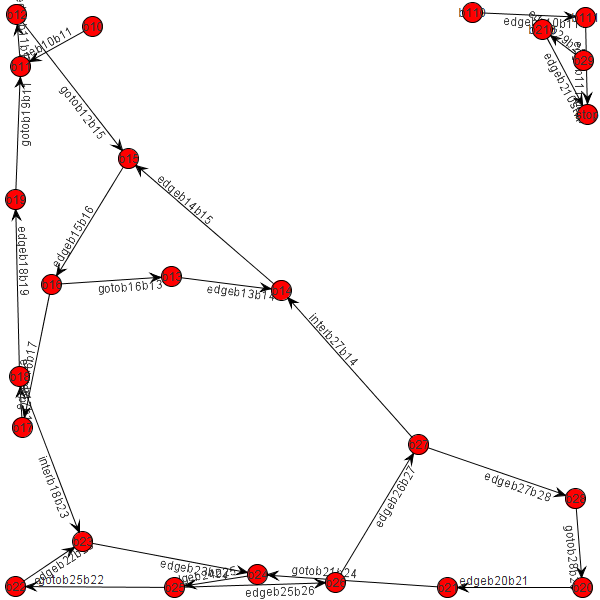
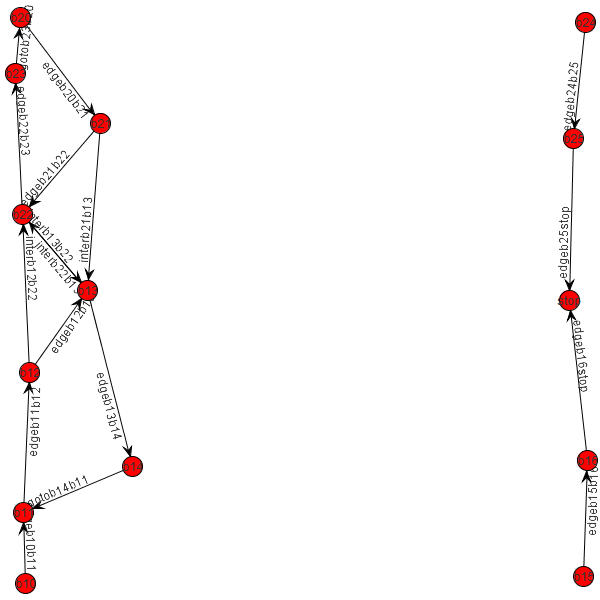
added wait prefix and notify prefix.waitprefix>notify>waitsuffix

diff --git a/CFGgenerator/src/in/msruas/project/CFGconstructor1.java b/CFGgenerator/src/in/msruas/project/CFGconstructor1.java
@@ -32,6 +32,7 @@ public class CFGconstructor1 {
 	WaitAndNotify wn;
 	WaitAndNotifyOps wno;
 	BasicBlockOps bbo;
+	int syncBlockCount;
 	
 
 	int[][] edge;
@@ -53,7 +54,7 @@ public class CFGconstructor1 {
 		wn=new WaitAndNotify(fileName);
 		wno=WaitAndNotifyOps.getInstance();
 		bbo=BasicBlockOps.getInstance();
-		
+		syncBlockCount=0;
 
 	}
 
@@ -100,20 +101,21 @@ public class CFGconstructor1 {
 					waitQueue.add(currentAddr);
 					sb.setWaitList(Integer.parseInt(currentAddr));
 					leaders[numberofLeaders++] = Integer.parseInt(currentAddr);
-					leaderSwitch=true;
+					//leaderSwitch=true;
 					continue;
 				}
 				
 				if (token.contains("notify")) {
 					notifyQueue.add(currentAddr);
 					sb.setNotifyList(Integer.parseInt(currentAddr));
-					leaders[numberofLeaders++] = Integer.parseInt(currentAddr);
+					//leaders[numberofLeaders++] = Integer.parseInt(currentAddr);
 				}
 
 				if (token.equals("monitorenter")) {
 
 					StringTokenizer st1 = new StringTokenizer(currentLine);
 					String addr = st1.nextToken();
+					syncBlockCount++;
 
 					// monitorenter and monitorexit instruction are leaders
 					int presentAddress = Integer.parseInt(addr);
@@ -126,39 +128,44 @@ public class CFGconstructor1 {
 				if (token.equals("monitorexit")) {
 					leaderSwitch = true;
 					sb.setExitLine(Integer.parseInt(currentAddr));
+					syncBlockCount--;
+				}
+				
+				if(syncBlockCount==0){
+					if (token.equals("goto") || token.equals("goto_w") || token.equals("jsr") || token.equals("jsr_w")
+							|| token.equals("ret") || token.equals("tableswitch") || token.equals("lookupswitch")) {
+						StringTokenizer st2 = new StringTokenizer(currentLine);
+						String addr = st2.nextToken();
+						int presentAddress = Integer.parseInt(addr);
+						int targetAddress = Integer.parseInt(st.nextToken());
+						leaders[numberofLeaders++] = targetAddress;
+						System.out.println("leader: " + leaders[numberofLeaders - 1]);
+						leaderSwitch = true;
+
+						// construction of edge
+						edge[row][0] = presentAddress;
+						edge[row][1] = targetAddress;
+						row++;
+						gotoList.add(presentAddress);
+
+					}
+
+					if (token.charAt(0) == 'i' && token.charAt(1) == 'f') {
+						StringTokenizer st2 = new StringTokenizer(currentLine);
+						String addr = st2.nextToken();
+						int presentAddress = Integer.parseInt(addr);
+						int targetAddress = Integer.parseInt(st.nextToken());
+						leaders[numberofLeaders++] = presentAddress;
+						leaders[numberofLeaders++] = targetAddress;
+						leaderSwitch = true;
+						// construction of edge
+						edge[row][0] = presentAddress;
+						edge[row][1] = targetAddress;
+						row++;
+					}
 				}
 
-				if (token.equals("goto") || token.equals("goto_w") || token.equals("jsr") || token.equals("jsr_w")
-						|| token.equals("ret") || token.equals("tableswitch") || token.equals("lookupswitch")) {
-					StringTokenizer st2 = new StringTokenizer(currentLine);
-					String addr = st2.nextToken();
-					int presentAddress = Integer.parseInt(addr);
-					int targetAddress = Integer.parseInt(st.nextToken());
-					leaders[numberofLeaders++] = targetAddress;
-					System.out.println("leader: " + leaders[numberofLeaders - 1]);
-					leaderSwitch = true;
-
-					// construction of edge
-					edge[row][0] = presentAddress;
-					edge[row][1] = targetAddress;
-					row++;
-					gotoList.add(presentAddress);
-
-				}
-
-				if (token.charAt(0) == 'i' && token.charAt(1) == 'f') {
-					StringTokenizer st2 = new StringTokenizer(currentLine);
-					String addr = st2.nextToken();
-					int presentAddress = Integer.parseInt(addr);
-					int targetAddress = Integer.parseInt(st.nextToken());
-					leaders[numberofLeaders++] = presentAddress;
-					leaders[numberofLeaders++] = targetAddress;
-					leaderSwitch = true;
-					// construction of edge
-					edge[row][0] = presentAddress;
-					edge[row][1] = targetAddress;
-					row++;
-				}
+				
 
 				// Separating monitorenter and monitorexit instructions
 

diff --git a/CFGgenerator/src/in/msruas/project/CFGgenerator.java b/CFGgenerator/src/in/msruas/project/CFGgenerator.java
@@ -6,10 +6,13 @@ import java.io.IOException;
 public class CFGgenerator {
 
 	public static void main(String[] args) throws IOException {
-		CFGconstructor cfg = new CFGconstructor("F:\\individual_project\\bytecodes\\producer.txt",1);
-		CFGconstructor cfg1 = new CFGconstructor("F:\\individual_project\\bytecodes\\consumer.txt",2);
+		CFGconstructor1 cfg = new CFGconstructor1("F:\\individual_project\\bytecodes\\producer.txt",1);
+		CFGconstructor1 cfg1 = new CFGconstructor1("F:\\individual_project\\bytecodes\\consumer.txt",2);
 //		CFGconstructor cfg = new CFGconstructor("F:\\individual_project\\bytecodes\\caseStudy1_thread1.txt",1);
 //		CFGconstructor cfg1 = new CFGconstructor("F:\\individual_project\\bytecodes\\caseStudy1_thread2.txt",2);
+//		CFGconstructor1 cfg = new CFGconstructor1("F:\\individual_project\\bytecodes\\SimpleWaitAndNotifyMain.txt",1);
+//		CFGconstructor1 cfg1 = new CFGconstructor1("F:\\individual_project\\bytecodes\\SimpleWaitAndNotifyThreadOne.txt",2);
+		
 		NPAnalyzer npa=NPAnalyzer.getInstance();
 		CodeStore cs=CodeStore.getInstance();
 		HappensBefore hb=HappensBefore.getInstance();
@@ -37,8 +40,12 @@ public class CFGgenerator {
 		
 		
 		//g.genInterThreadComm(cfg1.getWaitStack(), cfg1.getNotifyStack());
-		InterThreadAnalysis it=new InterThreadAnalysis(cfg.getBasicBlock(), cfg1.getBasicBlock(), g);
-		it.computerInterThreadEdges(cfg.getWaitStack(), cfg.getNotifyStack(), cfg1.getWaitStack(), cfg1.getNotifyStack());
+//		InterThreadAnalysis it=new InterThreadAnalysis(cfg.getBasicBlock(), cfg1.getBasicBlock(), g);
+//		it.computerInterThreadEdges(cfg.getWaitStack(), cfg.getNotifyStack(), cfg1.getWaitStack(), cfg1.getNotifyStack());
+//		
+		InterThreadAnalysis1 it=new InterThreadAnalysis1(g);
+		it.computerInterThreadEdges();
+		
 		g.renderGraph();
 //		cfg.printblock();
 //		cfg1.printblock();

diff --git a/CFGgenerator/src/in/msruas/project/InterThreadAnalysis1.java b/CFGgenerator/src/in/msruas/project/InterThreadAnalysis1.java
@@ -1,27 +1,46 @@
 package in.msruas.project;
+
 import java.util.ArrayList;
+import java.util.HashMap;
+import java.util.Iterator;
 import java.util.Queue;
 
-public class InterThreadAnalysis {
-	
+public class InterThreadAnalysis1 {
 	String filePath1,filePath2;
 	BasicBlock[] bb1,bb2;
 	GraphGenerator g;
-	//SyncBlocksOps sbo;
-	//Queue waitQueue,notifyQueue;
-	
-
-	public InterThreadAnalysis(BasicBlock[] bb1, BasicBlock[] bb2,
-			GraphGenerator g) {
-				
-		this.bb1 = bb1;
-		this.bb2 = bb2;
+	WaitAndNotifyOps wno;
+	Queue waitQ1, notifyQ1, waitQ2, notifyQ2;
+	//BasicBlockOps bbo;
+	Nodes nodelist;
+	public InterThreadAnalysis1(GraphGenerator g) {
 		this.g=g;
-		//sbo=SyncBlocksOps.getInstance();
+		wno=WaitAndNotifyOps.getInstance();
+		//bbo=BasicBlockOps.getInstance();
+		nodelist=Nodes.getInstance();
+		initBasicBlocks();
+		initQueues();
 	}
-
-
-	public void computerInterThreadEdges(Queue waitQ1,Queue notifyQ1,Queue waitQ2,Queue notifyQ2){
+	
+	/*function to initialize the basic blocks*/
+	void initBasicBlocks(){
+		HashMap blockList=nodelist.getEntireNodesMap();
+		Iterator keyset = blockList.keySet().iterator();		
+		bb1=(BasicBlock[]) blockList.get(keyset.next());
+		bb2=(BasicBlock[]) blockList.get(keyset.next());
+		
+	}
+	
+	/*function to initialize the wait and notify queues*/
+	void initQueues(){
+		ArrayList<WaitAndNotify> wnList = wno.getWnList();
+		waitQ1=wnList.get(1).getWaitQueue();
+		notifyQ1=wnList.get(1).getNotifyQueue();
+		waitQ2=wnList.get(0).getWaitQueue();
+		notifyQ2=wnList.get(0).getNotifyQueue();		
+	}
+	
+public void computerInterThreadEdges(){
 		
 		for(Object item : notifyQ1){
 			int from = Integer.parseInt((String) notifyQ1.remove()) , to = Integer.parseInt((String) waitQ2.remove());
@@ -92,5 +111,6 @@ public class InterThreadAnalysis {
 		}
 		return null;
 	}
+	
 	
 }

diff --git a/CFGgenerator/src/in/msruas/project/Nodes.java b/CFGgenerator/src/in/msruas/project/Nodes.java
@@ -26,6 +26,10 @@ public class Nodes {
 		return (BasicBlock[]) nodesMap.get(fileName);
 	}
 	
+	public HashMap getEntireNodesMap(){
+		return nodesMap;
+	}
+	
 	String findNode(int instrNo,String fileName) {
 		BasicBlock[] bb=(BasicBlock[]) nodesMap.get(fileName);
 		for (int i = 0; i < bb.length; i++) {
